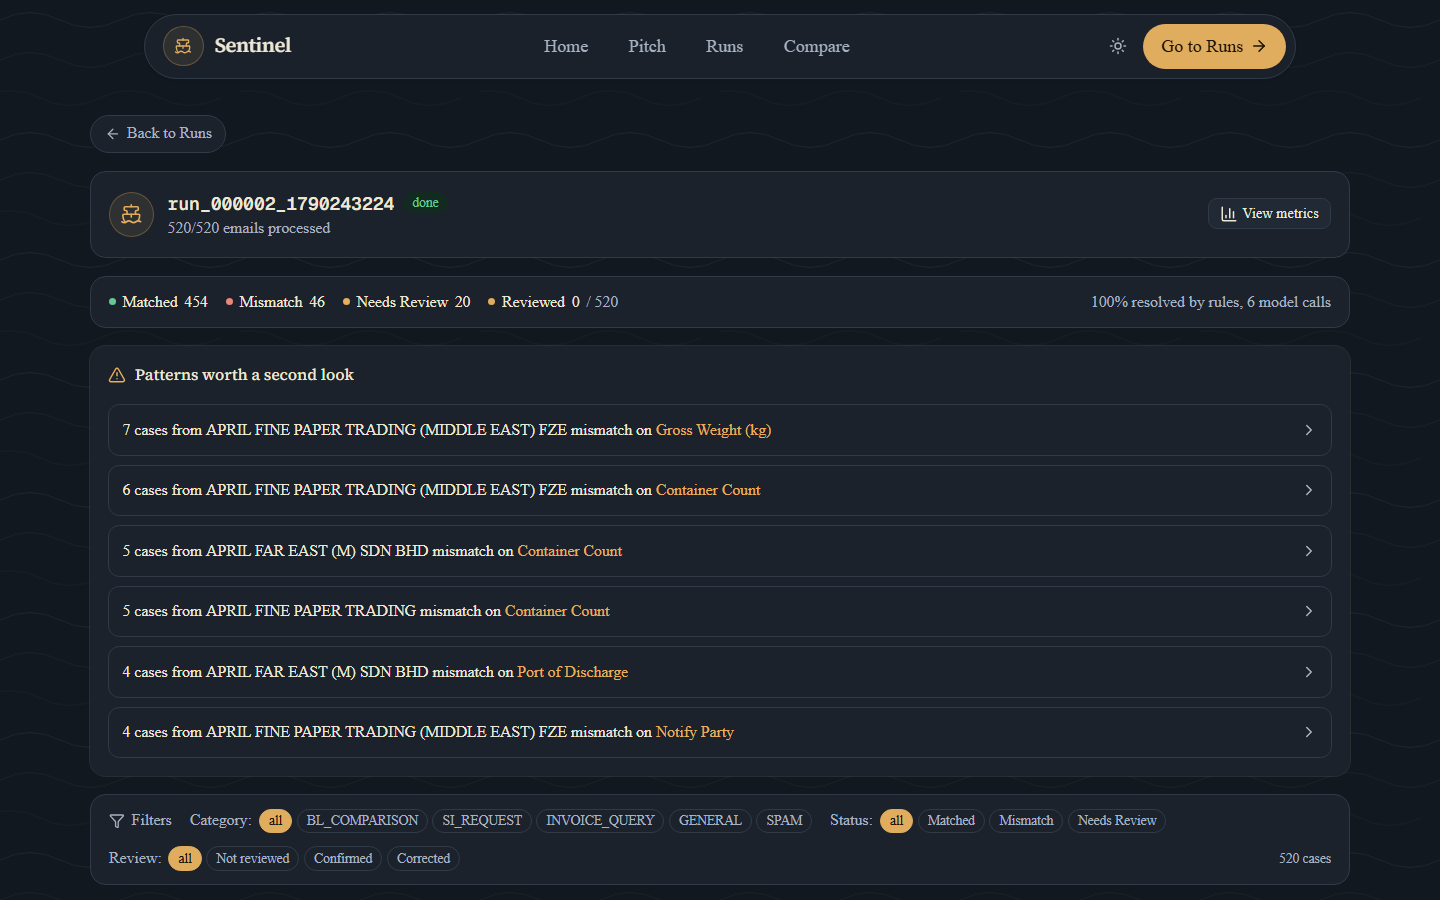
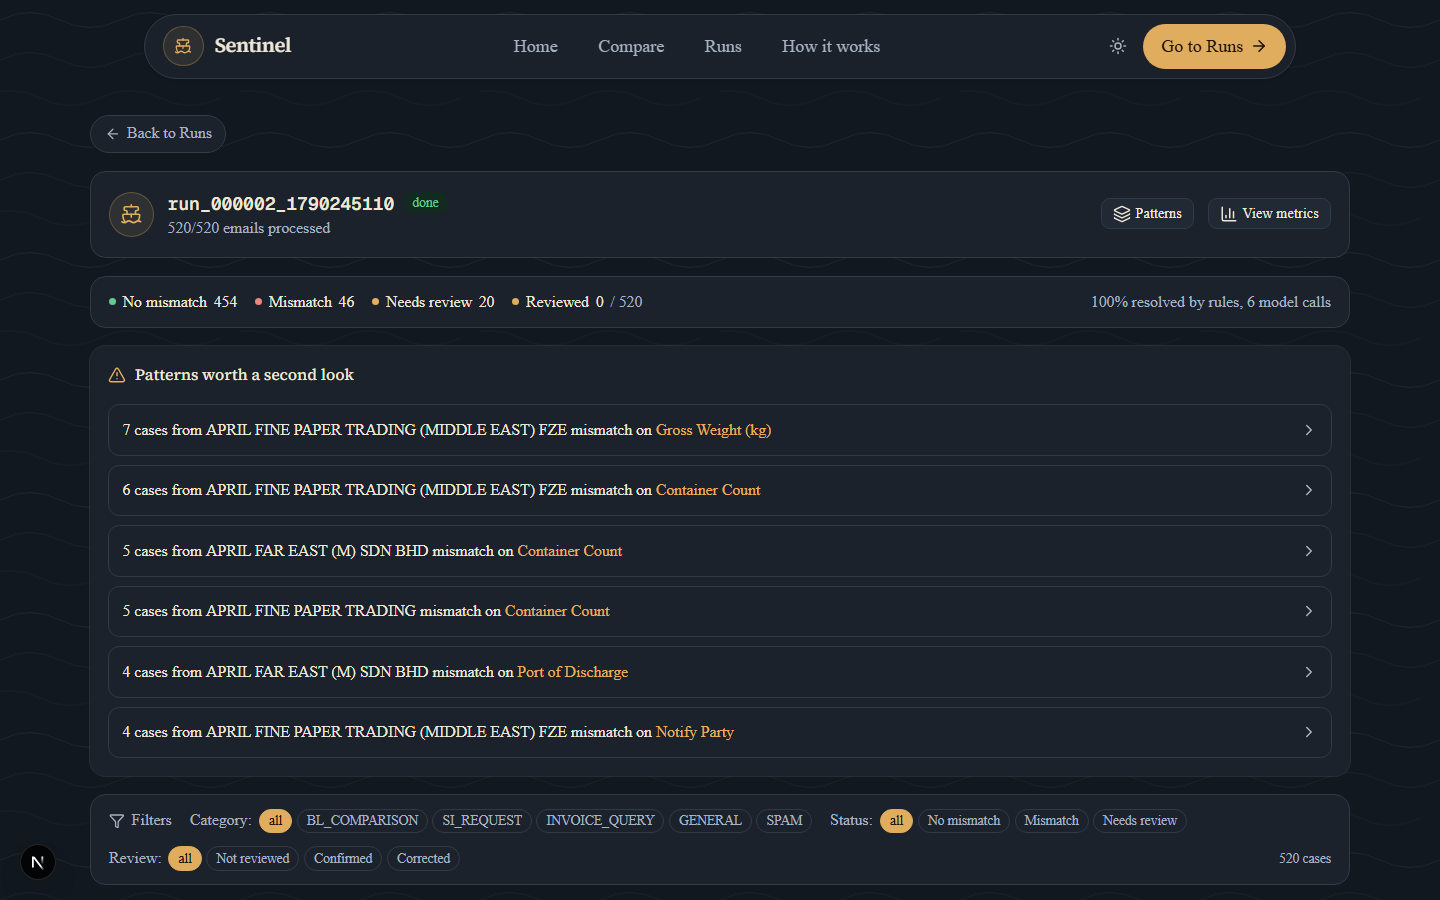
docs(pitch): fold the mentor session into the deck source and the day sheet
What the mentor asked for, in the deck's source and generator: the intro
says why the system was built and how long a manual check takes (our
estimate, labelled as one); slide 3 carries the four steps a desk actually
takes; slide 5's notes open with "never say we use less AI -- say the AI is
reserved for what rules can't handle, and it performs just as well"; slide 4
is trimmed to twenty seconds to give slide 7, now "What makes it different",
thirty seconds on the five features the mentor said to emphasise: correct by
re-upload, scans read out for the reviewer, shipper history on a field, the
original one click away, a reply drafted from the corrected outcome.

PITCH_DAY.md gains the mentor's table -- what they said, what changed -- the
rewritten AI answer, and the unit question another team was asked (20,000 KG
vs 20 MT: handled, re-checked today: 20 MT -> 20,000 kg, 21 MT -> 21,000 kg).

The run-page screenshot is re-captured with the new status words and nav.
The .pptx/.pdf are rebuilt in the next commit; the file was open in
PowerPoint when this landed.

diff --git a/docs/PITCH_DECK.md b/docs/PITCH_DECK.md
@@ -62,20 +62,24 @@ for that sentence."
 ## Slide 2 · The problem, and the fourth case *(0:15–0:40)* → criterion 5
 
 **On the slide:** the organisers' own four capabilities — Classify ·
-Extract · Compare · Ask for help — as four boxes; under them, one line:
-*"The SI is the reference. Catch incorrect details before the draft is
-finalised."* And the desk's three pains from the problem statement:
-finding the right emails takes time; manual comparison is repetitive and
-easy to get wrong; the same field is printed differently on the two
-documents.
+Extract · Compare · Ask for help — as four boxes; under them, the line the
+mentor asked for: *why we built it* — a documentation clerk does this by
+hand, about 4 minutes per SI/BL pair and 20 seconds to triage each email
+(a conservative estimate, labelled as one), and a missed field becomes a
+correction, a delay, rework. Then the desk's three pains from the problem
+statement: finding the right emails takes time; manual comparison is
+repetitive and easy to get wrong; the same field is printed differently on
+the two documents.
 
-**Say:** "A shipping desk gets five kinds of mail in one inbox. For a
-document check someone compares the Shipping Instruction against the draft
-Bill of Lading — seven fields, by hand. Miss one and it's a correction, a
-delay, rework. And there's a fourth case the statement names: sometimes the
-check *can't* be done — an unreadable scan, a blank field, the wrong
-document. That has to reach a person with the reason, not be guessed at.
-Sentinel does all four."
+**Say:** "Why we built it: a shipping desk gets five kinds of mail in one
+inbox, and for every document check a person compares the Shipping
+Instruction against the draft Bill of Lading — seven fields, by hand. At a
+conservative estimate that's about four minutes a pair and twenty seconds
+to triage each email; this inbox alone is a day and a half of desk work.
+Miss one field and it's a correction, a delay, rework. And there's a fourth
+case the statement names: sometimes the check *can't* be done — an
+unreadable scan, a blank field, the wrong document. That has to reach a
+person with the reason, not be guessed at. Sentinel does all four."
 
 **Scores:** Solution Effectiveness & User Value — problem-solution fit,
 in the organisers' own words.
@@ -84,19 +88,27 @@ in the organisers' own words.
 
 **On the slide:** one screenshot of the run page over the real inbox, and
 four numbers beside it — **520 emails · 46 mismatches · 20 sent to a person,
-with the reason · 12.7 s on a free container.** Below: the two public URLs,
-the words *live, deployed, the organisers' full bundle*.
+with the reason · 12.7 s on a free container.** Below, the four steps a
+desk actually takes (the mentor: "the pitch shows the pipeline, not how a
+person uses it"): *run the inbox · open a flagged case · confirm it, correct
+a single field, or re-upload the corrected document · send the drafted
+reply.*
 
 **Say:** "This is the whole inbox, live on Render and Vercel — not a
 sample, the organisers' 520 emails. Every email classified, every document
 pair compared, every case Sentinel can't decide sent to a person with the
-reason attached. Thirteen seconds. You'll press the button yourself in a
-minute."
+reason attached. Thirteen seconds. And this is how a desk uses it, four
+steps: run the inbox, open a flagged case, confirm it or correct one field
+or re-upload the corrected document, send the drafted reply."
 
 **Scores:** End-to-End Functionality. Do not say the accuracy here — that
 is slide 6's evidence.
 
-## Slide 4 · How it decides *(1:05–1:40)* → criterion 2
+## Slide 4 · How it decides *(1:05–1:30)* → criterion 2
+
+*Trimmed after the mentor session to buy slide 7 its extra fifteen seconds:
+keep the diagram on screen and say only the two choices and the gate
+sentence; the rest of the "Say" below is the eight-minute version.*
 
 **On the slide:** the six-stage diagram from `ARCHITECTURE.md` — Classify →
 Intake → Extract → Compare → **Gate** → Decide — with the gate drawn as the
@@ -121,7 +133,11 @@ behind one class in one file."
 **Scores:** Architecture & Scalability — trade-offs stated with their
 reasons, and a realistic scaling approach the code supports.
 
-## Slide 5 · Where the AI is, and why it is aimed *(1:40–2:20)* → criterion 3
+## Slide 5 · Where the AI is, and why it is aimed *(1:30–2:10)* → criterion 3
+
+*The mentor's rule for this slide: never say "we use less AI". Say the AI
+is reserved for the cases the rules can't handle — and the system performs
+just as well.*
 
 **On the slide:** three rows — **classify** *(an email the rules can't
 separate)* · **read** *(a label the table has never seen)* · **see** *(a
@@ -148,7 +164,7 @@ unknown labels read on request."
 rather than claimed. This slide is the answer to the judges' feedback;
 land it and move on.
 
-## Slide 6 · How we know it holds *(2:20–2:55)* → criterion 4
+## Slide 6 · How we know it holds *(2:10–2:45)* → criterion 4
 
 **On the slide:** four short blocks. *Not memorised:* 1.0000 on four
 datasets, three from seeds we never developed against — 225 defects, exact
@@ -174,7 +190,7 @@ than one we miss."
 **Scores:** Engineering Quality & Robustness. The 1.0000 lives here and
 only here.
 
-## Demo *(2:55–4:25)* → criteria 1, 3, 6
+## Demo *(2:45–4:10)* → criteria 1, 3, 6
 
 Not a slide. The running order is in `PITCH_DAY.md`: the run with the model
 tier on → the pattern group → a mismatch case with the source line under
@@ -194,21 +210,34 @@ Integration (the model doing its two jobs); User Experience &
 Differentiation (the evidence line, the per-field review, the pattern
 groups — the things a reviewer actually uses).
 
-## Slide 7 · What a reviewer gets, and what nobody else shows them *(4:25–4:40)* → criterion 6
+## Slide 7 · What makes it different *(4:10–4:40)* → criterion 6
 
-**On the slide:** four small captures — the evidence line under a value ·
-Correct it with a checkbox per field and the same-shipper count beside it ·
-*Patterns worth a second look* · the reply draft that changes when a
-reviewer corrects the case. One line: *Every flag carries the line it came
-from; every escalation carries the reason and what to do about it.*
+*Rebuilt after the mentor session: "at the top-ten stage everyone meets
+the brief — emphasise the special things."*
 
-**Say:** "Every other checker shows you a verdict. This one shows you the
-line, lets you correct a single field, groups the same shipper's repeated
-mistakes, and drafts the reply from the corrected outcome — not the stale
-one."
+**On the slide:** five numbered features, left; the scan read-out capture,
+right. **1 Correct by re-upload** — the sender re-sends a fixed SI or BL,
+you attach it on the case, the same check runs again, the old answer stays
+on record. **2 Scans read out for the reviewer** — an image-only PDF still
+goes to a person, but with the seven fields already read by the model,
+marked as evidence, not a verdict. **3 Shipper history on the field** —
+correcting a field shows how often this shipper was wrong on that same
+field before. **4 The original, one click away** — every value carries its
+line and the source document opens beside it. **5 A reply drafted from the
+corrected outcome** — not the stale one; a person still presses send. One
+line under them: *Every flag carries the line it came from; every
+escalation carries the reason and what to do about it.*
 
-**Scores:** User Experience & Differentiation. Keep it to fifteen seconds;
-the demo already did the work.
+**Say:** "At this stage everyone meets the brief, so here is what the
+others mostly don't have. The sender re-sends a fixed document — you
+re-upload it on the case, the check runs again, and the old answer stays on
+record. A scan still goes to a person, but already read out by the model.
+Correcting a field shows this shipper's history on that field. The original
+document is one click from every value. And the reply is drafted from what
+the reviewer decided, not the stale answer."
+
+**Scores:** User Experience & Differentiation. Thirty seconds now, not
+fifteen — the demo showed two of the five; this names all of them.
 
 ## Slide 8 · Impact, and what comes next *(4:40–4:58)* → criterion 7
 
@@ -238,6 +267,17 @@ The "eleven hours" carries *at a conservative estimate* aloud, always.
 you."
 
 ---
+
+## What the mentor changed (24 Sep)
+
+The full table is in `PITCH_DAY.md`. In this document it landed as: the
+"why we built it" line and the manual-check estimate on slide 2; the four
+usage steps on slide 3; the "never say 'we use less AI'" rule on slide 5;
+slide 4 trimmed to twenty seconds; slide 7 rebuilt around the five
+differentiating features and given thirty; and, in the product, the status
+words "No mismatch / Mismatch / Needs review", the Compare page's
+three-step strip and clickable sample cards, and the nav order Home ·
+Compare · Runs · How it works.
 
 ## Cuts and extensions
 

diff --git a/docs/PITCH_DAY.md b/docs/PITCH_DAY.md
@@ -93,20 +93,38 @@ If the venue network dies mid-demo: switch to the local tab (`localhost:3000`
 already open behind), say so in one sentence, and continue from the same
 step. The inbox run is identical; only the model beat changes.
 
+## Mentor feedback (24 Sep, 20:30) — and what changed because of it
+
+Thirty minutes with a mentor the evening before the final. Their points, in
+their order of emphasis, and what was done with each:
+
+| They said | What changed |
+|---|---|
+| Don't say "we use less AI". Say the AI is *reserved* for the cases rules can't handle — and the system performs just as well. | Slide 5's notes open with that sentence; the answer below is rewritten around it. |
+| At the top-ten stage everyone meets the brief; **differentiate on the special things** — correction by re-upload, the scan read-out, shipper history on a field, the original document beside the value, the drafted reply. | Slide 8 is now "What makes it different", five features, thirty seconds instead of fifteen. |
+| The intro should say **why the system was built** and how long a manual check takes. | Slide 2 carries both; the time is our estimate (≈4 min a pair, 20 s an email) and is labelled as one. |
+| The pitch shows the pipeline steps but not **how a person uses it**. | Slide 3's footer is the four steps: run, open a case, confirm / correct a field / re-upload, send the reply. |
+| Design is better and more distinctive than most of the ten. **But**: font sizes too uniform; capitalisation inconsistent (`all` vs `All`); the Compare page's samples don't look clickable; mismatches should be visible from the list without opening a row. | Status labels are now "No mismatch / Mismatch / Needs review" (judges dislike "Matched/Mismatched"; "no mismatch detected" is the problem statement's phrase). Compare samples are obvious buttons with a "Load this pair →" footer and a three-step strip above them. Run-table emphasis, chip capitalisation and the case page's type hierarchy: session 8's list. |
+| Nav: "Pitch" says nothing; Runs could come after Compare. | Home · Compare · Runs · How it works. |
+| A judge asked another team whether **20,000 KG against 20 MT** is caught as a unit mismatch. | It is handled, and re-checked on 24 Sep: `20 MT` → 20,000 kg, `21 MT` → 21,000 kg, so 20,000 KG vs 20 MT compares equal and 20,000 KG vs 21 MT is a mismatch. Answer below. |
+
 ## Questions to expect, and the short true answer
 
 **"You said almost every decision is made by rules, not AI — why use AI so
-little?"** *(the preliminary judge's own comment)*
-Because on this inbox the rules are right every time and the scoring is
-all-or-nothing per email: flag one of two fields and that email scores
-zero. The model is aimed at the three things the rules admit they cannot do
-— an ambiguous email, a label we have never seen, a scanned page — and we
-measured it there: on documents with wording we invented, rules alone send
-168 of 188 cases to a human; with the model, 2, and false discrepancies stay
-at zero because nothing the model returns is adopted until we find it again
-in the document. You just watched it read a scan and read four labels. On
-this data the rules need no help, and that is a measured result, not an
-absence.
+little?"** — *the mentor's rule: never say "we use less AI".*
+The AI is reserved for the cases the rules can't handle — an ambiguous
+email, a label we have never seen, a scanned page — and the system performs
+just as well, because we measured it there: on wording we invented, rules
+alone send 168 of 188 cases to a human; with the model, 2, with false
+discrepancies still at zero. Using AI on every email would cost money on
+every email for no gain; on this inbox the rules are right every time, and
+that is a measured result, not an absence.
+
+**"What about units — 20,000 KG on one document and 20 MT on the other?"**
+Both are normalised to kilograms before the comparison — 20 MT reads as
+20,000 kg, so that pair compares equal; 20,000 KG against 21 MT is reported
+as a mismatch. Same for thousands separators and bare numbers in a
+spreadsheet cell.
 
 **"A perfect score — is it overfitting?"**
 Four datasets, three from seeds we never developed against: 1.0000 on all
